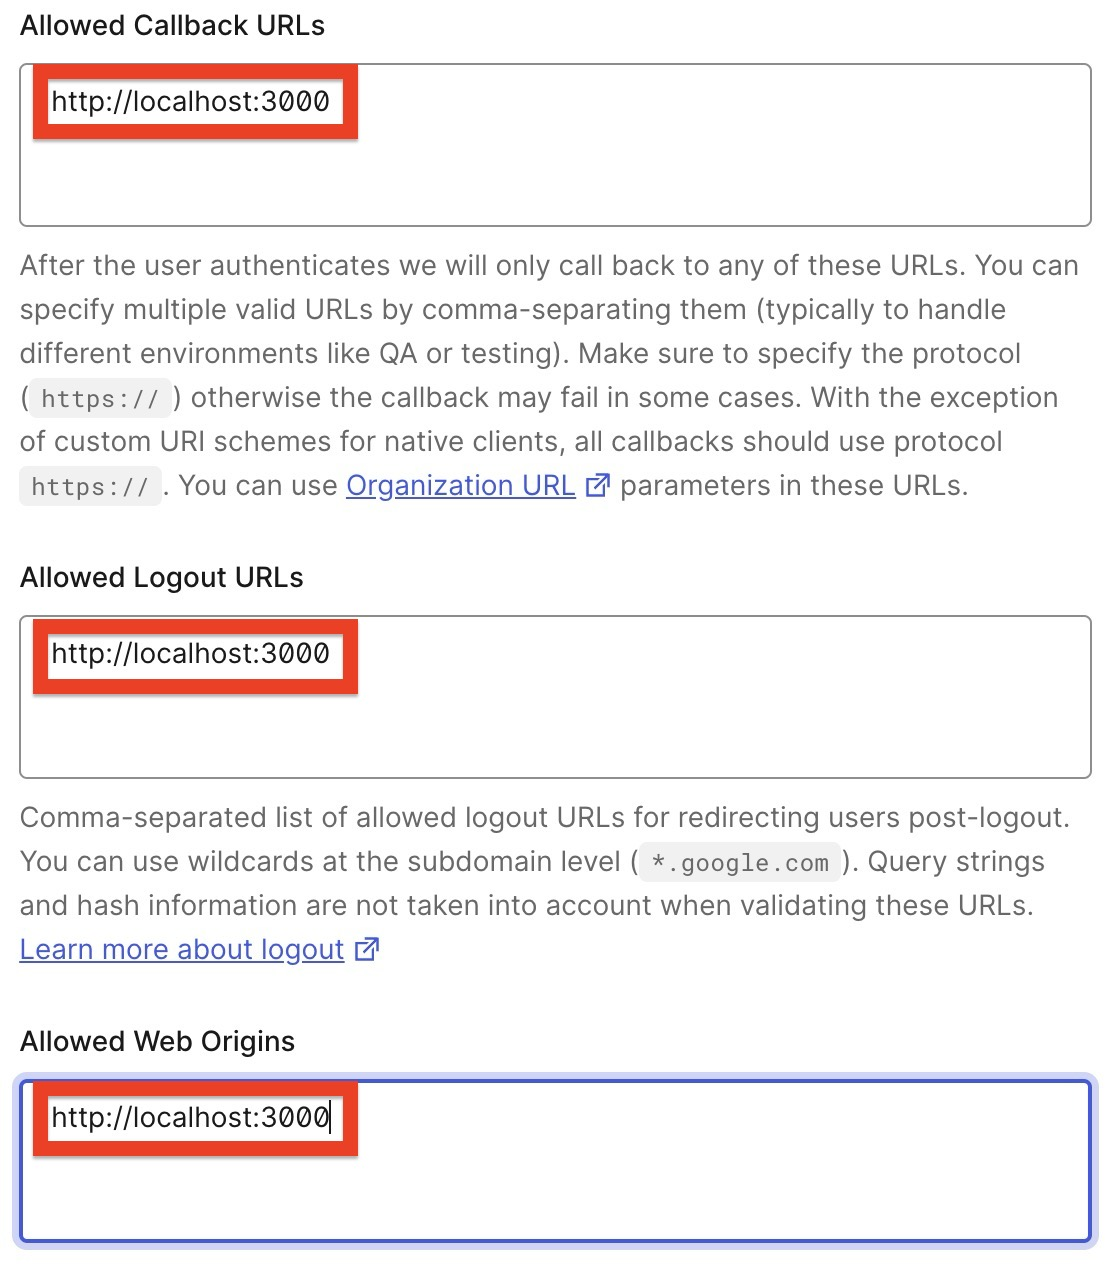
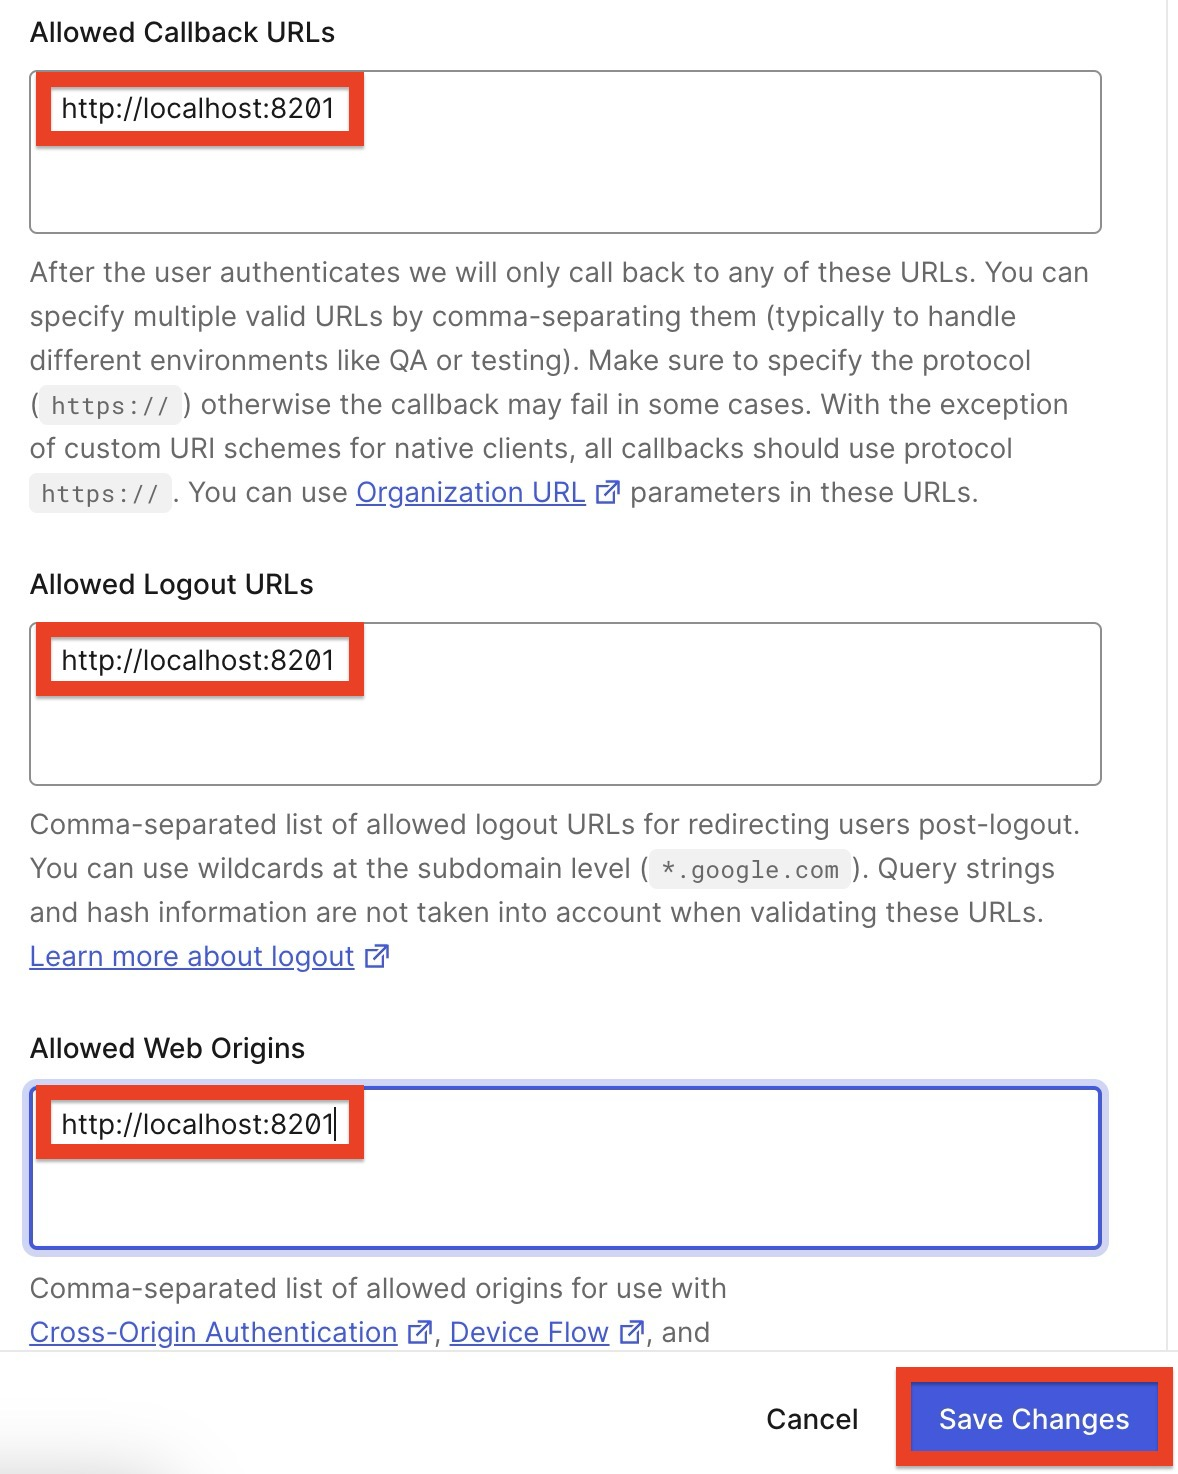
chap2-2完了

Changed region(s): [[0.0, 0.154, 1.0, 1.0], [0.0, 0.0, 0.9444, 0.154], [0.914, 0.4621, 0.9444, 0.4929]]

diff --git a/docs/guide-2-2.md b/docs/guide-2-2.md
@@ -41,3 +41,15 @@
 
 1. **各種 `許可 URI` を設定する**
 
+    Okta CIC でのログイン、ログアウト実行後に戻り先のページとして許可するアプリケーションの URL を設定します。本ハンズオンのサンプルアプリケーションでは `http://localhost:8201` のみを利用します。
+
+    * `Allowed Callback URLs`: http://localhost:8201
+      * ログイン完了後に戻るページの URL
+    * `Allowed Logout URLs`: http://localhost:8201
+      * ログアウト完了後に戻るページの URL
+    * `Allowed Web Origins`: http://localhost:8201
+      * [Silent Authentication](https://auth0.com/docs/authenticate/login/configure-silent-authentication) の実行に必要な Okta CIC へのアクセスを許可する URL
+
+    <img src="../assets/images/cic-handson-2-7.jpg?raw=true" style="max-height: 300px;" />
+
+    最後に画面下部の `Save Changes` をクリックして、設定を保存します。

diff --git a/docs/guide-2-1.md b/docs/guide-2-1.md
@@ -35,7 +35,7 @@
 
     ブラウザで `http://localhost:8201` にアクセスします。下記の画面が表示されれば成功です。
 
-    <img src="../assets/images/cic-handson-2-1.jpg?raw=true" style="max-height: 200px;" />
+    <img src="../assets/images/cic-handson-2-1.jpg?raw=true" style="max-height: 300px;" />
 
 1. **アプリケーションの動作確認**
 
